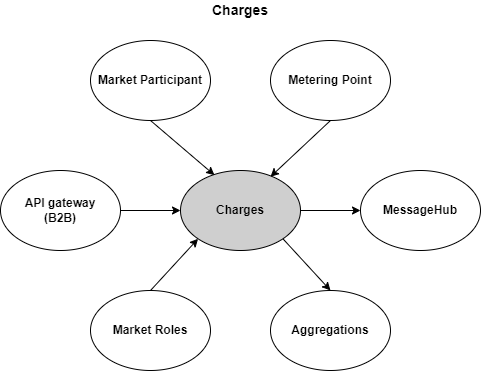
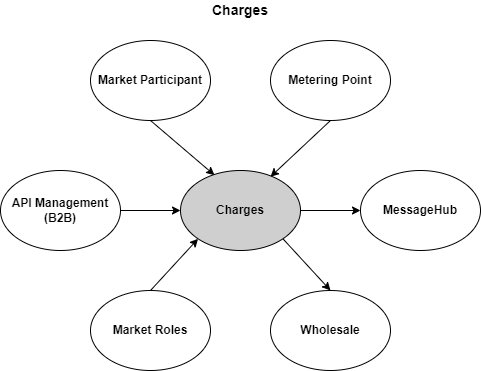
Docs: Update domain road map and context diagram in repo README (#1825)
If applied, updates the domain road map and context diagram

Changed region(s): [[0.5925, 0.8598, 0.7796, 0.9191], [0.0, 0.5337, 0.2495, 0.5633]]

diff --git a/README.md b/README.md
@@ -68,11 +68,13 @@ If you are interested in the public contracts of the Charges domain, please visi
 
 ## Domain Road Map
 
-Planned work for the current program increment (PI):
+Planned work for Charges:
 
-1. When a charge owner submits a charge price series, using the new business reason code `D08`, the Charges domain will be able to receive, validate, persist and forward it to relevant market participants. When this is implemented, it will no longer be possible to include price series with charge information request submitted with business reason code `D18`.
+1. Add a variety of front end capabilities:
 
-2. Subscribe to and use the integration events published by the [Market Participant](https://github.com/Energinet-DataHub/geh-market-participant) domain, thereby replacing the existing manual data synchronization process.
+* Show and access messages received for a given charge.
+* Show a charge's active timeline as per a user-defined date and time. Implicitly this entails defining and implement a charge historical data model.
+* Enable traceability between the operation id causing the state change on the timeline and the message in which it was received.
 
 ## Where can I get more help?
 
